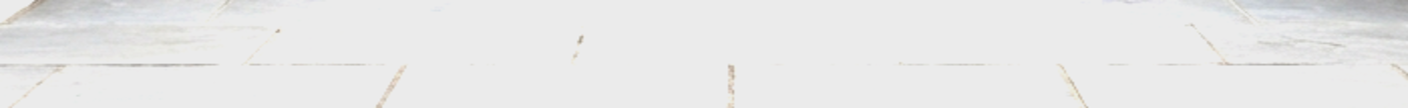
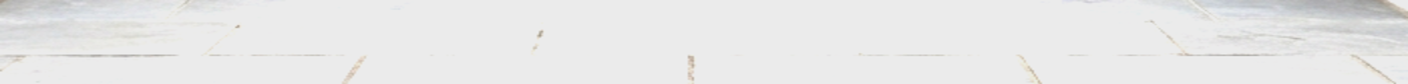
Wall scene: fix floor 'step' — panels drop paving, floor is one fixed plane
The paving was baked into the sliding panels, so the ground line stepped at each panel edge.
Mask the panels off at the wall-floor junction (only the pots hang below, over the fixed floor)
and align the floor band to that junction. Ground is now one continuous plane.

diff --git a/src/components/Main/WallScene.tsx b/src/components/Main/WallScene.tsx
@@ -41,7 +41,7 @@ const RIGHT_W_PCT = 333 / SCENE_W * 100; // 23.65%
 const CORNICE_PCT = 96 / SCENE_H * 100; // fixed top band → 12.5%
 const PANEL_TOP_PCT = CORNICE_PCT; // panels start just below the cornice
 const PANEL_H_PCT = 100 - CORNICE_PCT; // 87.5%
-const FLOOR_TOP_PCT = 660 / SCENE_H * 100; // fixed paving band starts here → 85.94%
+const FLOOR_TOP_PCT = 684 / SCENE_H * 100; // fixed paving starts at the wall-floor junction → 89.06%
 const WALL_WHITE = "#EBEBEB"; // the normalised wall tone → seamless behind the panels
 
 // NOTE: `interior`/`doorType` are accepted (door face flips via the render) but the slide engine